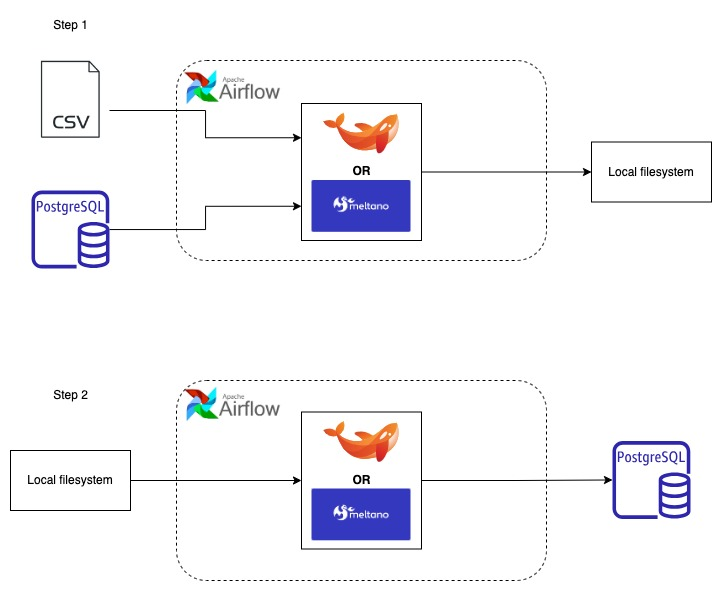
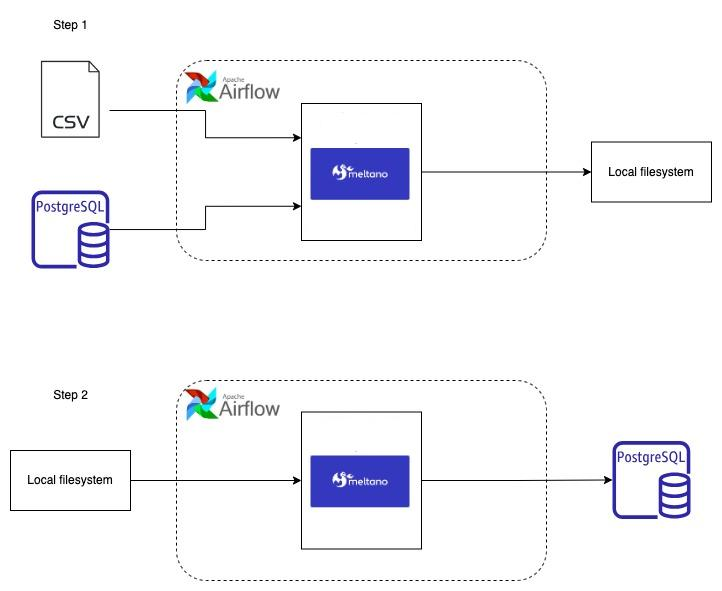
finalizado documentação

diff --git a/airflow/dags/extrator.py b/airflow/dags/extrator.py
@@ -3,17 +3,17 @@ from airflow.operators.bash import BashOperator
 from datetime import datetime
 
 default_args = {
-    "owner": "northwind_team",
+    "owner": "gnobisP",
     "start_date": datetime(2024, 1, 1),
     "retries": 2
 }
 
 with DAG(
-    "northwind_data_pipeline",
+    "pipeline_dados",
     default_args=default_args,
     schedule="@hourly",
     catchup=False,  
-    description="Pipeline para extrair dados do Northwind e salvar em Parquet",
+    description="Pipeline para extrair dados do Northwind e de um arquivo csv local e salva em um BD Postgres Warehouse",
     tags=["northwind", "elt"],
 ) as dag:
 

diff --git a/README.md b/README.md
@@ -1,6 +1,6 @@
-## O Desafio
+## O Projeto
 
-Você receberá duas fontes de dados: 
+Existem duas fontes de dados: 
 1. Um banco de dados **PostgreSQL** (Northwind). 
 2. Um arquivo **CSV** com detalhes de pedidos de um sistema de e-commerce.
 
@@ -12,9 +12,11 @@ Você receberá duas fontes de dados:
 ![image](https://user-images.githubusercontent.com/49417424/105997621-9666b980-608a-11eb-86fd-db6b44ece02a.png)
 
 
-A solução deve seguir o padrão do desenho demonstado abaixo:
+O projeto segue o padrão do desenho demonstado abaixo:
 ![image](docs/diagrama_embulk_meltano.jpg)
 
+# Preview 🖥 
+![GIF](docs/demostracao.gif)
 # 🛠 Tecnologias Utilizadas 
 - **Sistema Operacional**: [Linux-Ubuntu] 
 - **Python**: [python3 3.10] 
@@ -27,13 +29,12 @@ A solução deve seguir o padrão do desenho demonstado abaixo:
   - **Clone o repositório:**
 ```sh
   git clone https://github.com/gnobisP/code-challenge.git
-  cd code-challenge
+  cd pipeline_dados
 ```
 ### 🐧 Linux:
   - **Instalando dependências:**
 ```sh
-  make install_metano
-  make install_airflow
+  make setup
 ```
 - **Rodando extratores separadamente**
 ```sh
@@ -41,12 +42,20 @@ make run-etl
 ```
 - **Rodando todo projeto**
 ```sh
-make airflow-start0
+make start-airflow-scheduler:
 ```
 - **`Novo terminal`**
  ```sh
-make airflow-start1
+make start-airflow-webserver
 ```
+### Credênciais
+
+| Acesso             | Valor    |
+|--------------------|----------|
+| **👤 Usuário**     | Admin    |
+| **🔐 Senha**       | 123456   |
+
+
 
 ## 📁 Estrutura do Projeto
 
@@ -55,13 +64,15 @@ Contém os arquivos responsáveis pela arquitetura do pipeline
 
 - **`dag.py`**: dag para executar e controlar o pipeline
 #### 📂 `script`
-- **`extratorCSV.sh`**: script BASH para relizar a estração do CSV
-- **`extratorPOSTGREE.sh`**: script BASH para relizar a estração do POSTGREE
+- **`extratorCSV.sh`**: script BASH para relizar a extração do CSV
+- **`extratorPOSTGREE.sh`**: script BASH para relizar a extração do POSTGREE
+- **`fase2.sh`**: script BASH para relizar a extração dos arquivos locais para o warehouse postgres
 ---
 
 ### 📂 `data`
 - **`order_details.csv`**: Planilha que contém as ordens.
-- **`northwind.sql`**: Comandos SQL para alterar dados da BD da northwind.
+- **`northwind.sql`**: Comandos SQL para incializar BD da northwind.
+- **`warehouse.sql`**: Comandos SQL para incializar BD da warehouse.
 
 ```sh
 /data/postgres/{table}/2024-01-01/file.format
@@ -77,6 +88,9 @@ Contém os arquivos responsáveis pela arquitetura do pipeline
 
 ### Outros Arquivos
 - **`TODO.md`**: Lista de pendências e melhorias futuras para o projeto.
-- **`README.md`**: Documentação principal do projeto.
+- **`airflow/README.md`**: Documentação do airflow.
+- **`metano-project/README.md`**: Documentação do meltano.
 - **`makefile`**: Regras para instalações das ferramentas
 ---
+
+- Projeto realizado para o desafio da Indicium
